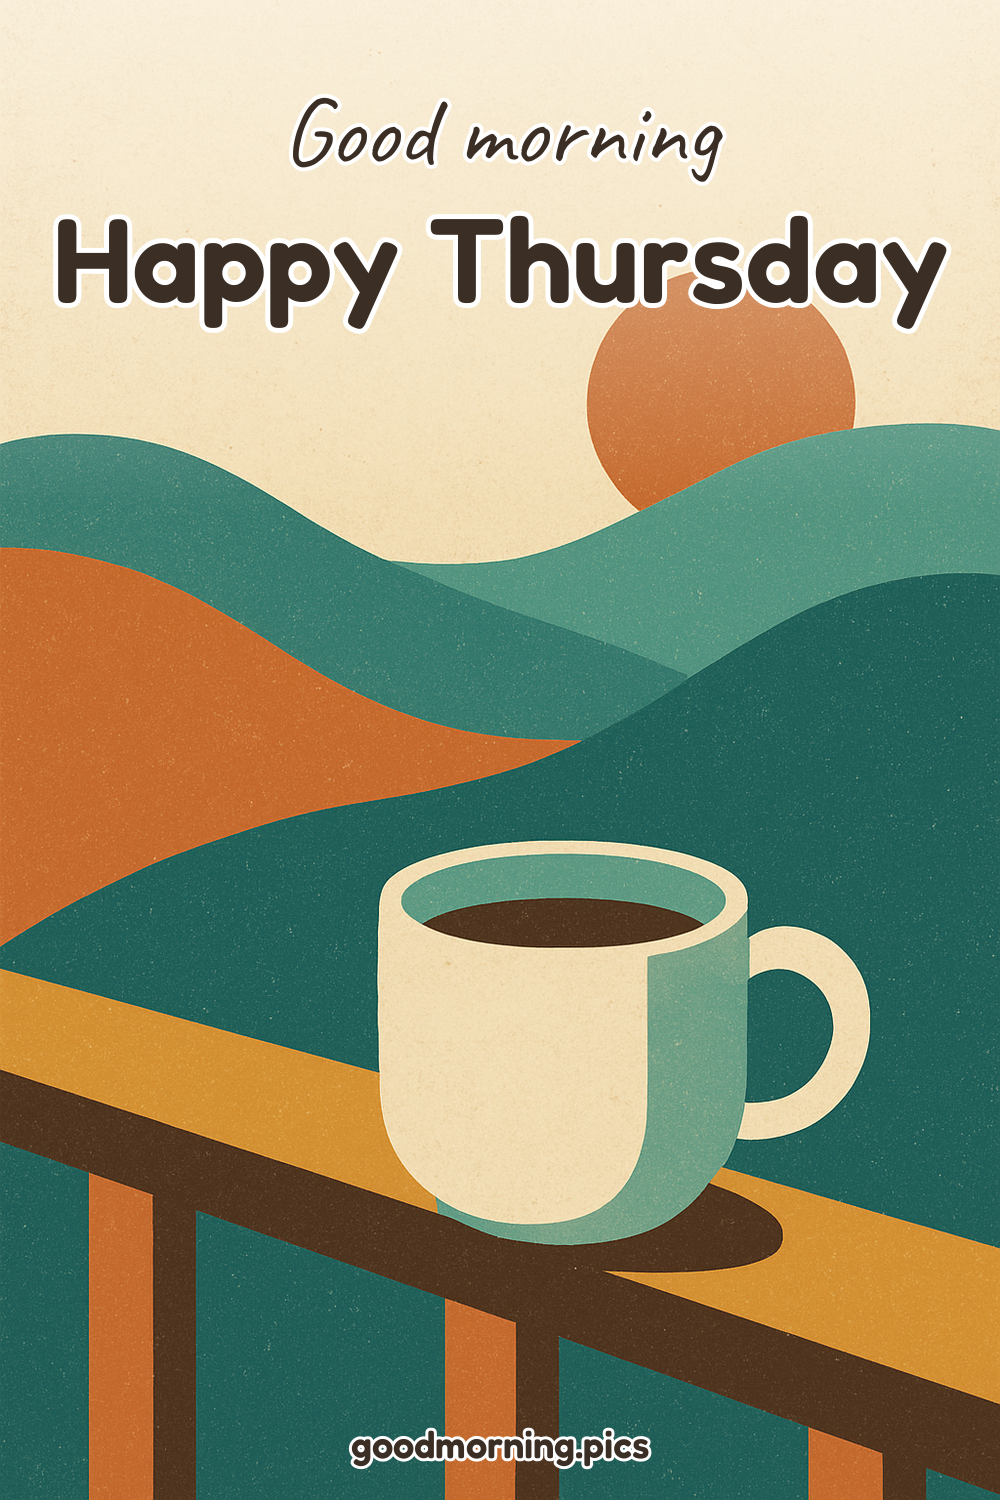
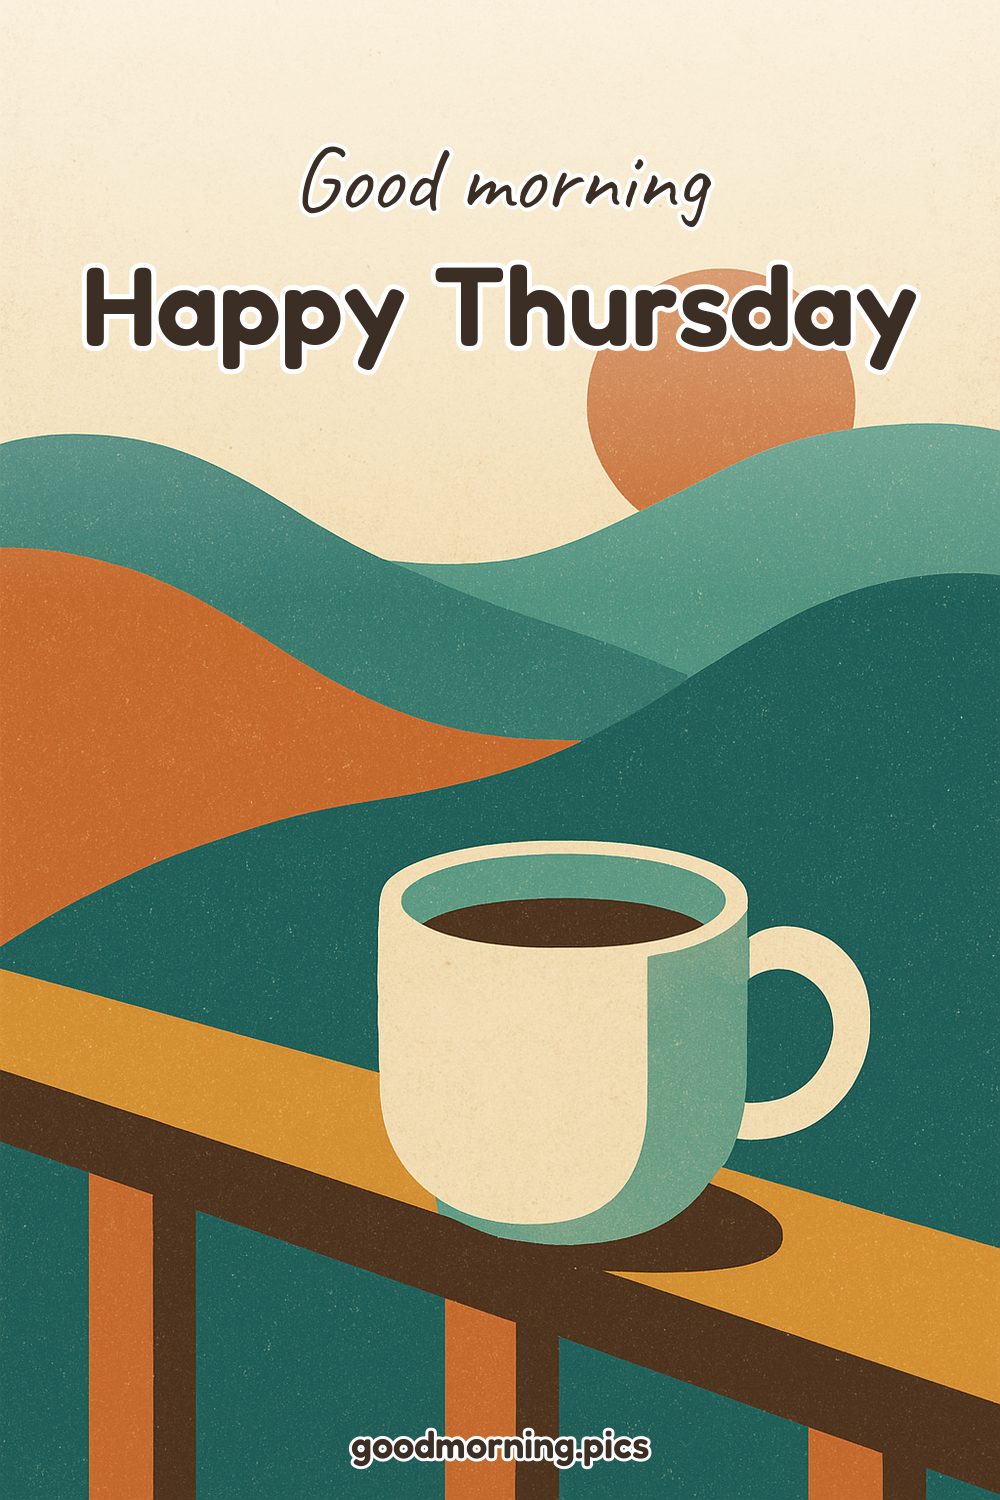
change

Changed region(s): [[0.031, 0.0613, 0.961, 0.2453]]

diff --git a/scripts/publish_approved.py b/scripts/publish_approved.py
@@ -118,22 +118,39 @@ def centered(draw, y, text, font, fill, stroke_fill, stroke=4):
     draw.text(((FINAL_W - w) / 2, y), text, font=font, fill=fill,
               stroke_width=stroke, stroke_fill=stroke_fill)
 
+def fit_font(names, text, max_width, start, min_size=64):
+    """Shrink the font until `text` fits within max_width — so long day names
+    (Wednesday/Thursday/Saturday) stay on one line with margin."""
+    size = start
+    while size > min_size:
+        f = load_font(names, size)
+        if f.getlength(text) <= max_width:
+            return f
+        size -= 4
+    return load_font(names, min_size)
+
 def compose(src: Path, weekday: str) -> Image.Image:
     img = Image.open(src).convert("RGBA").resize((FINAL_W, FINAL_H), Image.LANCZOS)
+    # Deeper top scrim so the nudged-down headline stays legible.
     scrim = Image.new("RGBA", img.size, (0, 0, 0, 0))
     sd = ImageDraw.Draw(scrim)
-    band = int(FINAL_H * 0.34)
+    band = int(FINAL_H * 0.40)
     for i in range(band):
-        a = int(150 * (1 - i / band))
+        a = int(160 * (1 - i / band))
         sd.line([(0, i), (FINAL_W, i)], fill=(255, 252, 246, a))
     img = Image.alpha_composite(img, scrim)
     d = ImageDraw.Draw(img)
-    script = load_font(["script.ttf", "Caveat.ttf"], 96)
-    head   = load_font(["headline.ttf", "Fredoka.ttf"], 120)
-    mark   = load_font(["headline.ttf", "Fredoka.ttf"], 38)
+
     ink, halo = (58, 46, 37, 255), (255, 255, 255, 230)
-    centered(d, 70,  "Good morning", script, ink, halo, 4)
-    centered(d, 185, f"Happy {weekday}", head, ink, halo, 5)
+    script = load_font(["script.ttf", "Caveat.ttf"], 92)
+    mark   = load_font(["headline.ttf", "Fredoka.ttf"], 38)
+    # Headline auto-fits to ~84% width so the longest day still has margin.
+    head = fit_font(["headline.ttf", "Fredoka.ttf"], f"Happy {weekday}", int(FINAL_W * 0.84), 120)
+
+    # Nudged down from the very top edge.
+    centered(d, 120, "Good morning", script, ink, halo, 4)
+    centered(d, 235, f"Happy {weekday}", head, ink, halo, 5)
+
     wmw = d.textlength(WORDMARK, font=mark)
     d.text(((FINAL_W - wmw) / 2, FINAL_H - 80), WORDMARK, font=mark,
            fill=(58, 46, 37, 220), stroke_width=3, stroke_fill=(255, 255, 255, 200))